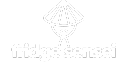
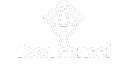
update eslint and app name

diff --git a/app/layout.tsx b/app/layout.tsx
@@ -8,18 +8,18 @@ import logo from "../assets/sensei.png";
 const inter = Inter({ subsets: ["latin"] });
 
 const defaultMetadata: Metadata = {
-  title: "Fridge Sensei",
+  title: "Food Sensei",
   description:
-    "Transform your kitchen experience with Fridge Sensei! Effortlessly manage your fridge contents and discover delicious recipes based on what you have. Say goodbye to mealtime indecision and make every meal a masterpiece.",
+    "Transform your kitchen experience with Food Sensei! Effortlessly manage your Food contents and discover delicious recipes based on what you have. Say goodbye to mealtime indecision and make every meal a masterpiece.",
 };
 
+interface RootLayoutProps {
+  pageProps?: any;
+}
 export default function RootLayout({
   children,
-  pageProps,
-}: Readonly<{
-  children: React.ReactNode;
-  pageProps: any; // You may want to define a specific type for page props
-}>) {
+  pageProps = {},
+}: React.PropsWithChildren<RootLayoutProps>) {
   // If pageProps.metadata is defined, use it to override the default metadata
   const pageMetadata = pageProps?.metadata || defaultMetadata;
 

diff --git a/app/signin/page.tsx b/app/signin/page.tsx
@@ -33,8 +33,8 @@ export default function SignInPage() {
   return (
     <>
       <Head>
-        <title>Sign in - Fridge Sensei</title>
-        <meta name="description" content="Fridge sensei sign in page" />
+        <title>Sign in - Food Sensei</title>
+        <meta name="description" content="Food sensei sign in page" />
       </Head>
       <div className="w-full lg:grid lg:min-h-[600px] lg:grid-cols-2 xl:min-h-[800px]">
         <div className="flex items-center justify-center mt-[-10%]">

diff --git a/components/layout/index.tsx b/components/layout/index.tsx
@@ -20,7 +20,7 @@ export default function Layout({
       <Meta {...meta} />
       <div className="fixed top-0 w-full z-10 transition-all">
         <div className="flex h-16 w-full items-center justify-between xl:mx-auto">
-          <Link href="/" className="flex items-center space-x-3 ml-4 mt-2">
+          <Link href="/" className="flex items-center space-x-3 ml-4 ">
             <Image src={senseiName} alt="seisei name" width="128" height="65" />
           </Link>
           <Link

diff --git a/app/dash/page.tsx b/app/dash/page.tsx
@@ -453,8 +453,8 @@ export default function DashboardPage() {
   return user ? (
     <>
       <Head>
-        <title>Fridge Sensei</title>
-        <meta name="description" content="Fridge sensei" />
+        <title>Food Sensei</title>
+        <meta name="description" content="Food sensei" />
       </Head>
       <div className="flex min-h-screen w-full flex-col bg-muted/40">
         <aside className="fixed inset-y-0 left-0 z-10 hidden w-14 flex-col border-r bg-background sm:flex">

diff --git a/app/signup/page.tsx b/app/signup/page.tsx
@@ -53,8 +53,8 @@ export default function SignUpPage() {
   return (
     <>
       <Head>
-        <title>Sign up for Fridge Sensei</title>
-        <meta name="description" content="Fridge sensei" />
+        <title>Sign up for Food Sensei</title>
+        <meta name="description" content="Food sensei" />
       </Head>
       <div className="w-full lg:grid lg:min-h-[600px] lg:grid-cols-2 xl:min-h-[800px]">
         <div className="flex items-center justify-center mt-[-10%]">

diff --git a/app/page.tsx b/app/page.tsx
@@ -11,8 +11,8 @@ export default function LandingPage() {
   return (
     <>
       <Head>
-        <title>Fridge Sensei</title>
-        <meta name="description" content="Fridge sensei" />
+        <title>Food Sensei</title>
+        <meta name="description" content="Food sensei" />
       </Head>
 
       <Layout>
